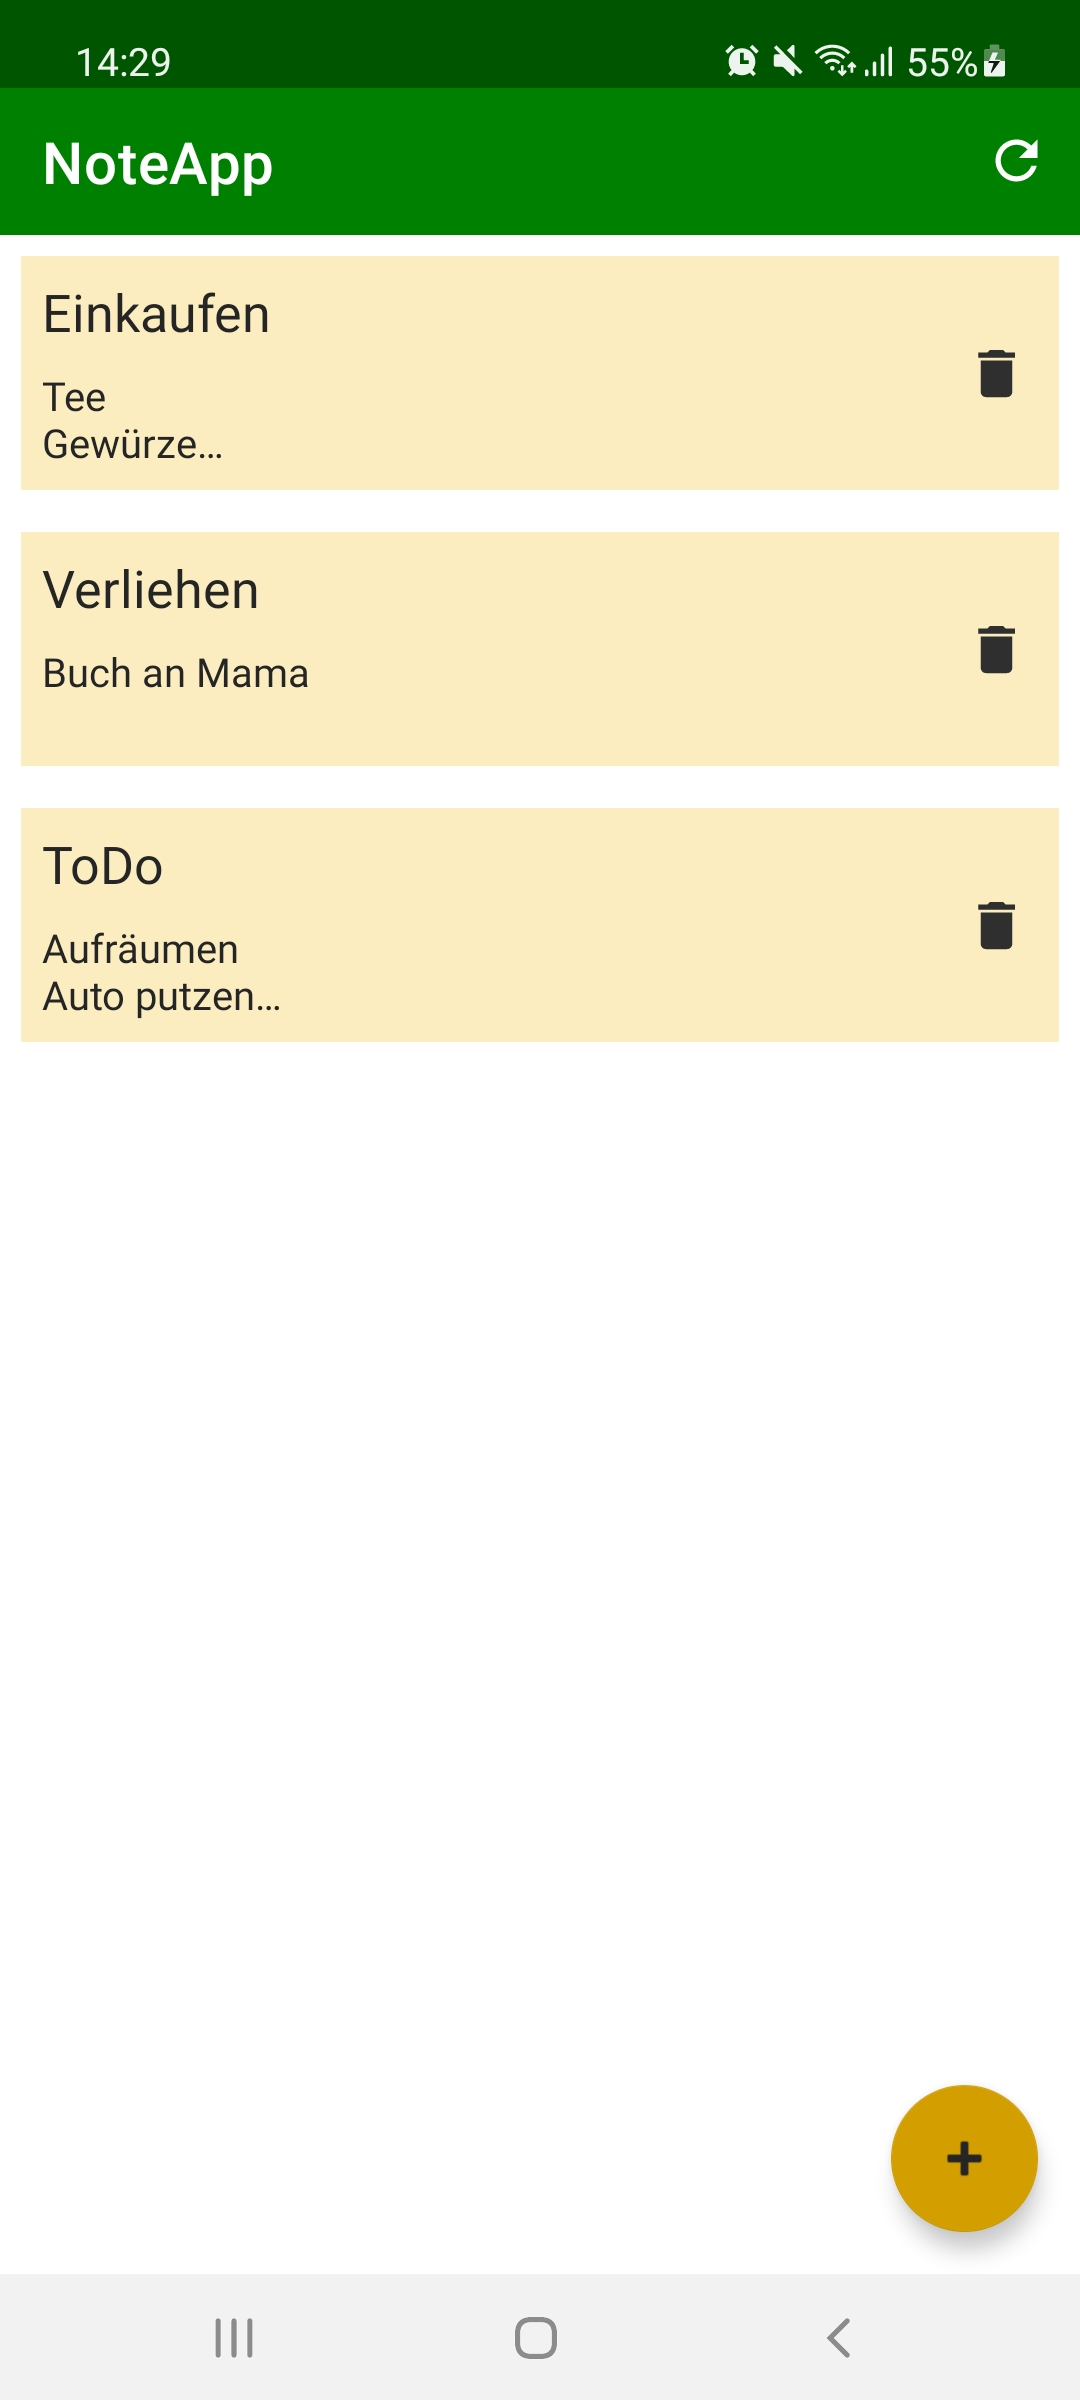
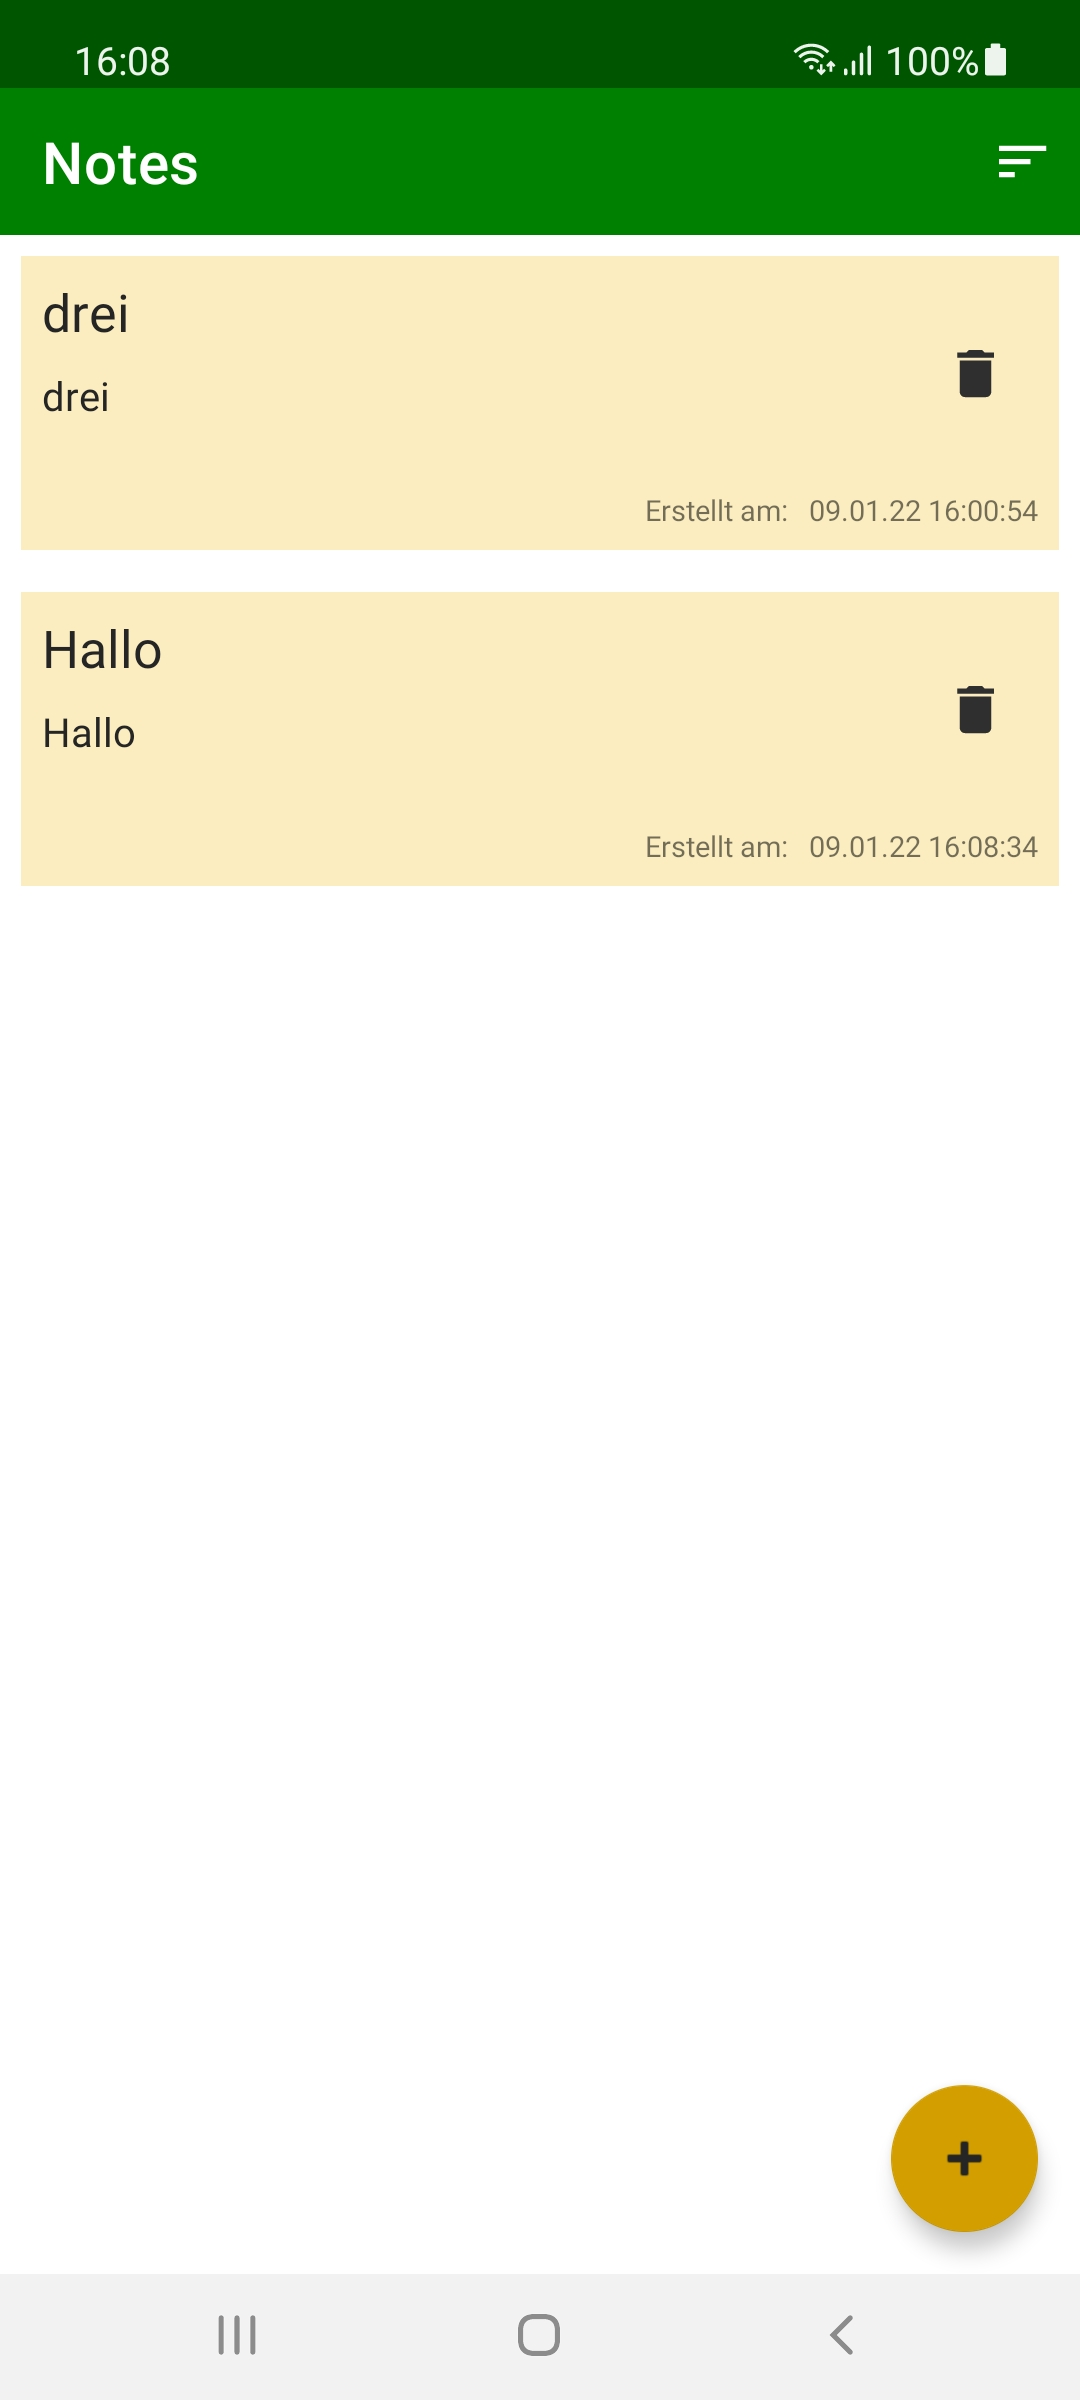
update README including images

diff --git a/README.md b/README.md
@@ -5,6 +5,7 @@ This basic note taking app includes the following features:
 - Add notes
 - Edit notes
 - Delete notes (with dialog for confirmation)
+- Sort notes (latest first, oldest first)
 
 It comprises the following technical features:
 
@@ -14,9 +15,11 @@ It comprises the following technical features:
 - RecyclerView
 - Confirmation Dialog  
 - Splash screen animation
+- Menu
 
 <p>
 <img src="images/NoteApp_all_notes.jpg" width="250"/>
+<img src="images/NoteApp_all_notes_sortMenu.jpg" width="250"/>
 <img src="images/NoteApp_note_detail.jpg" width="250"/>
 <img src="images/NoteApp_delete_dialog.jpg" width="250"/>
 </p>
